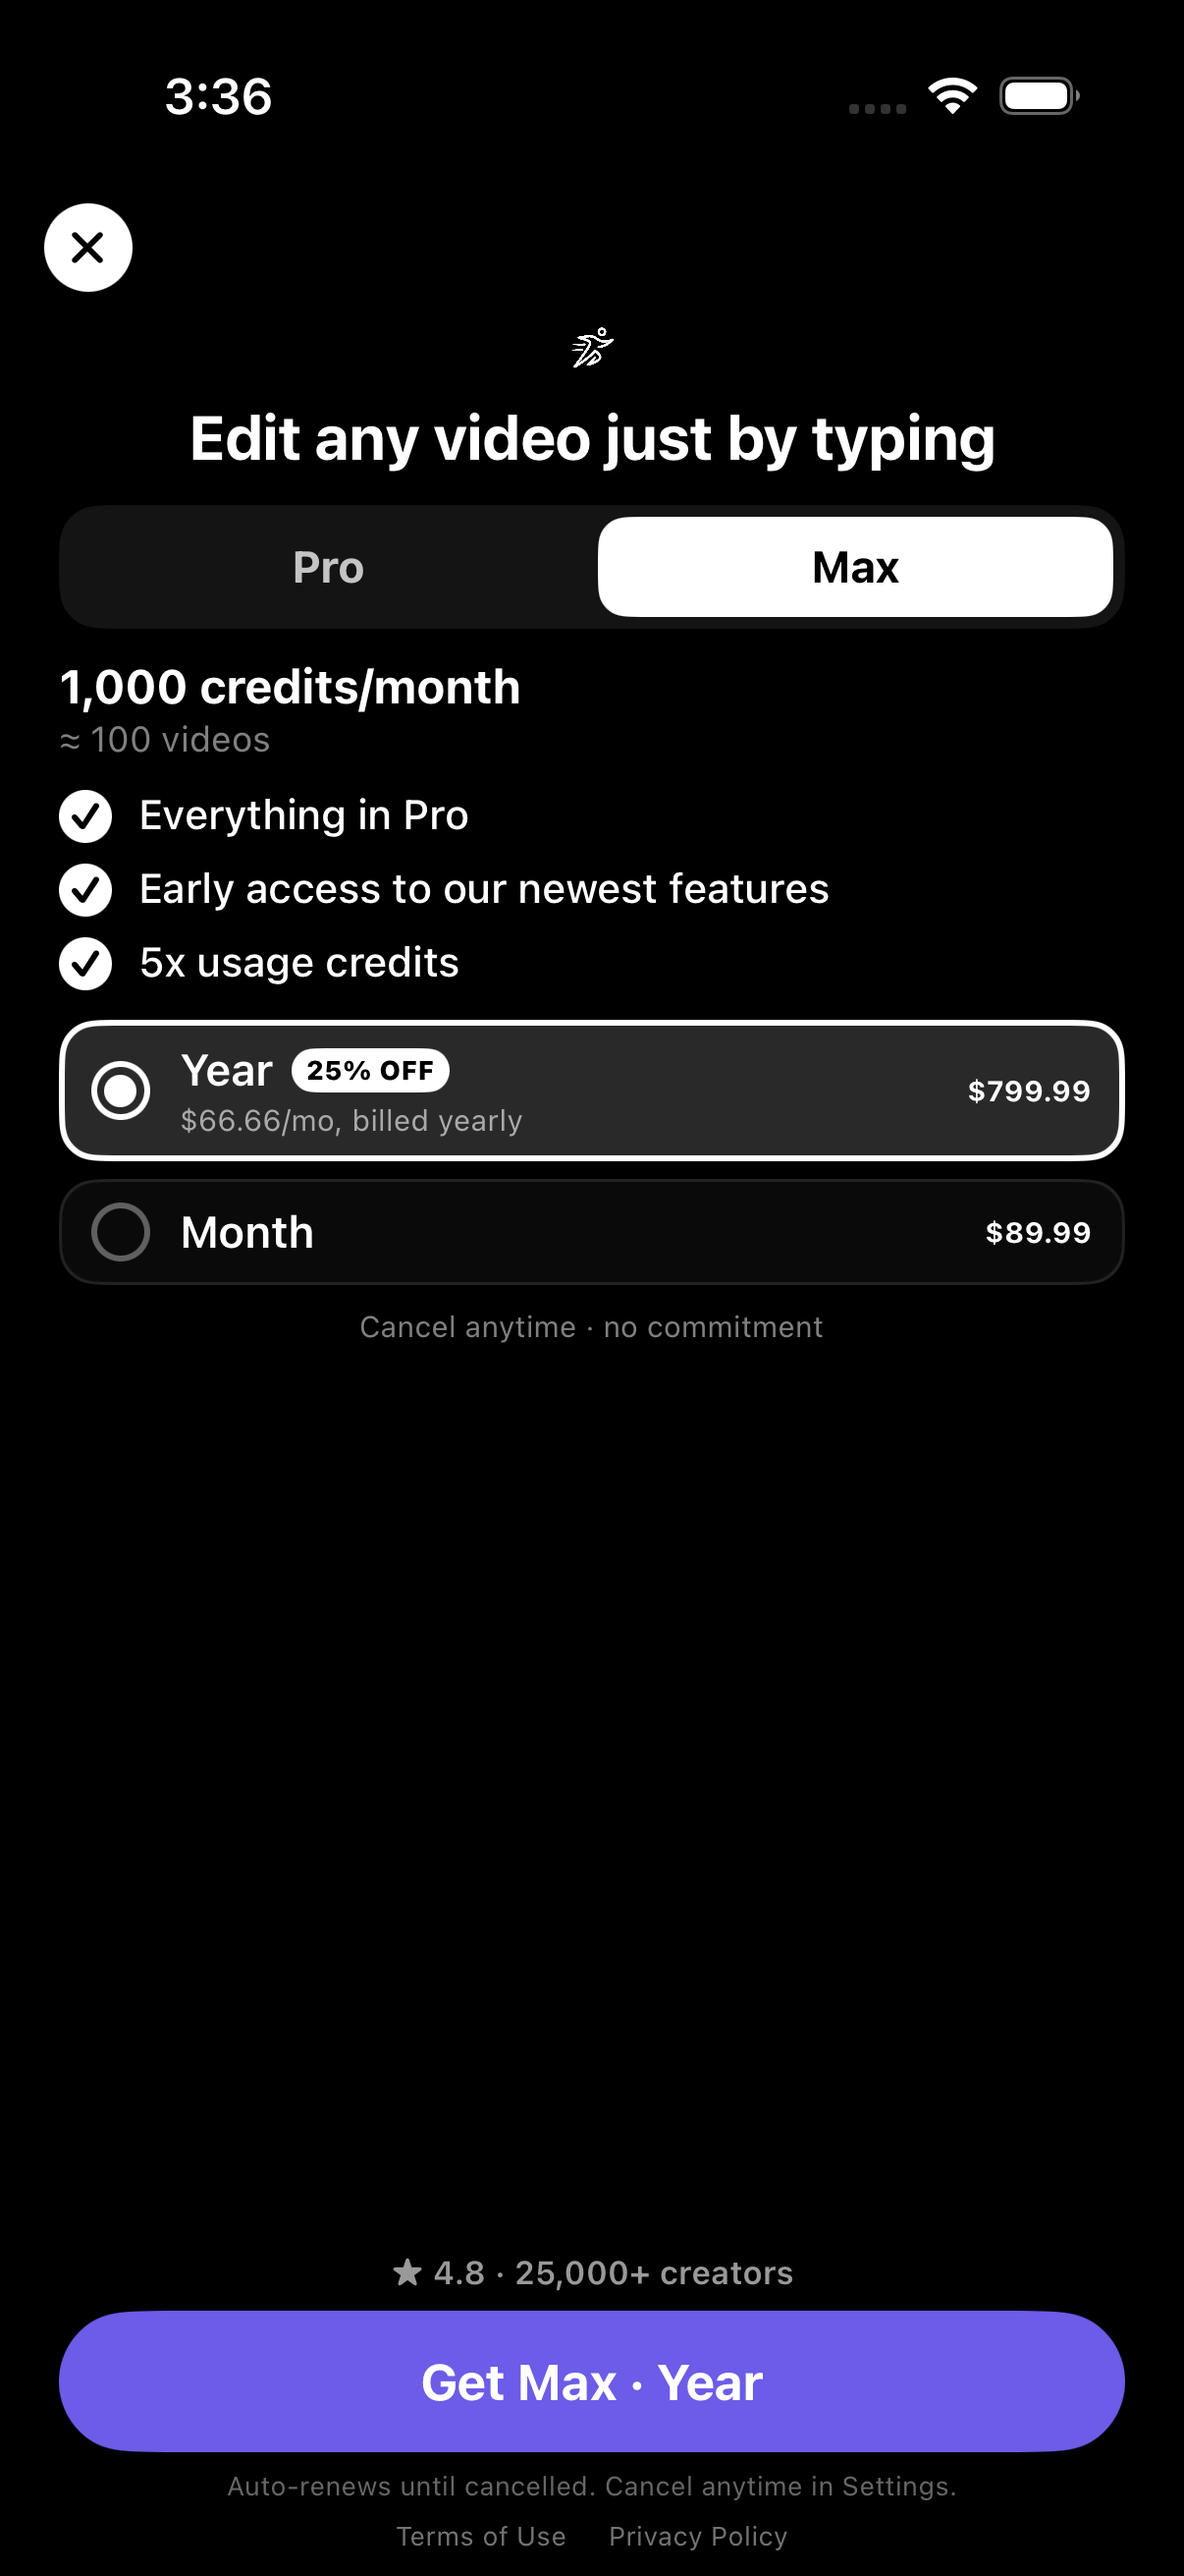
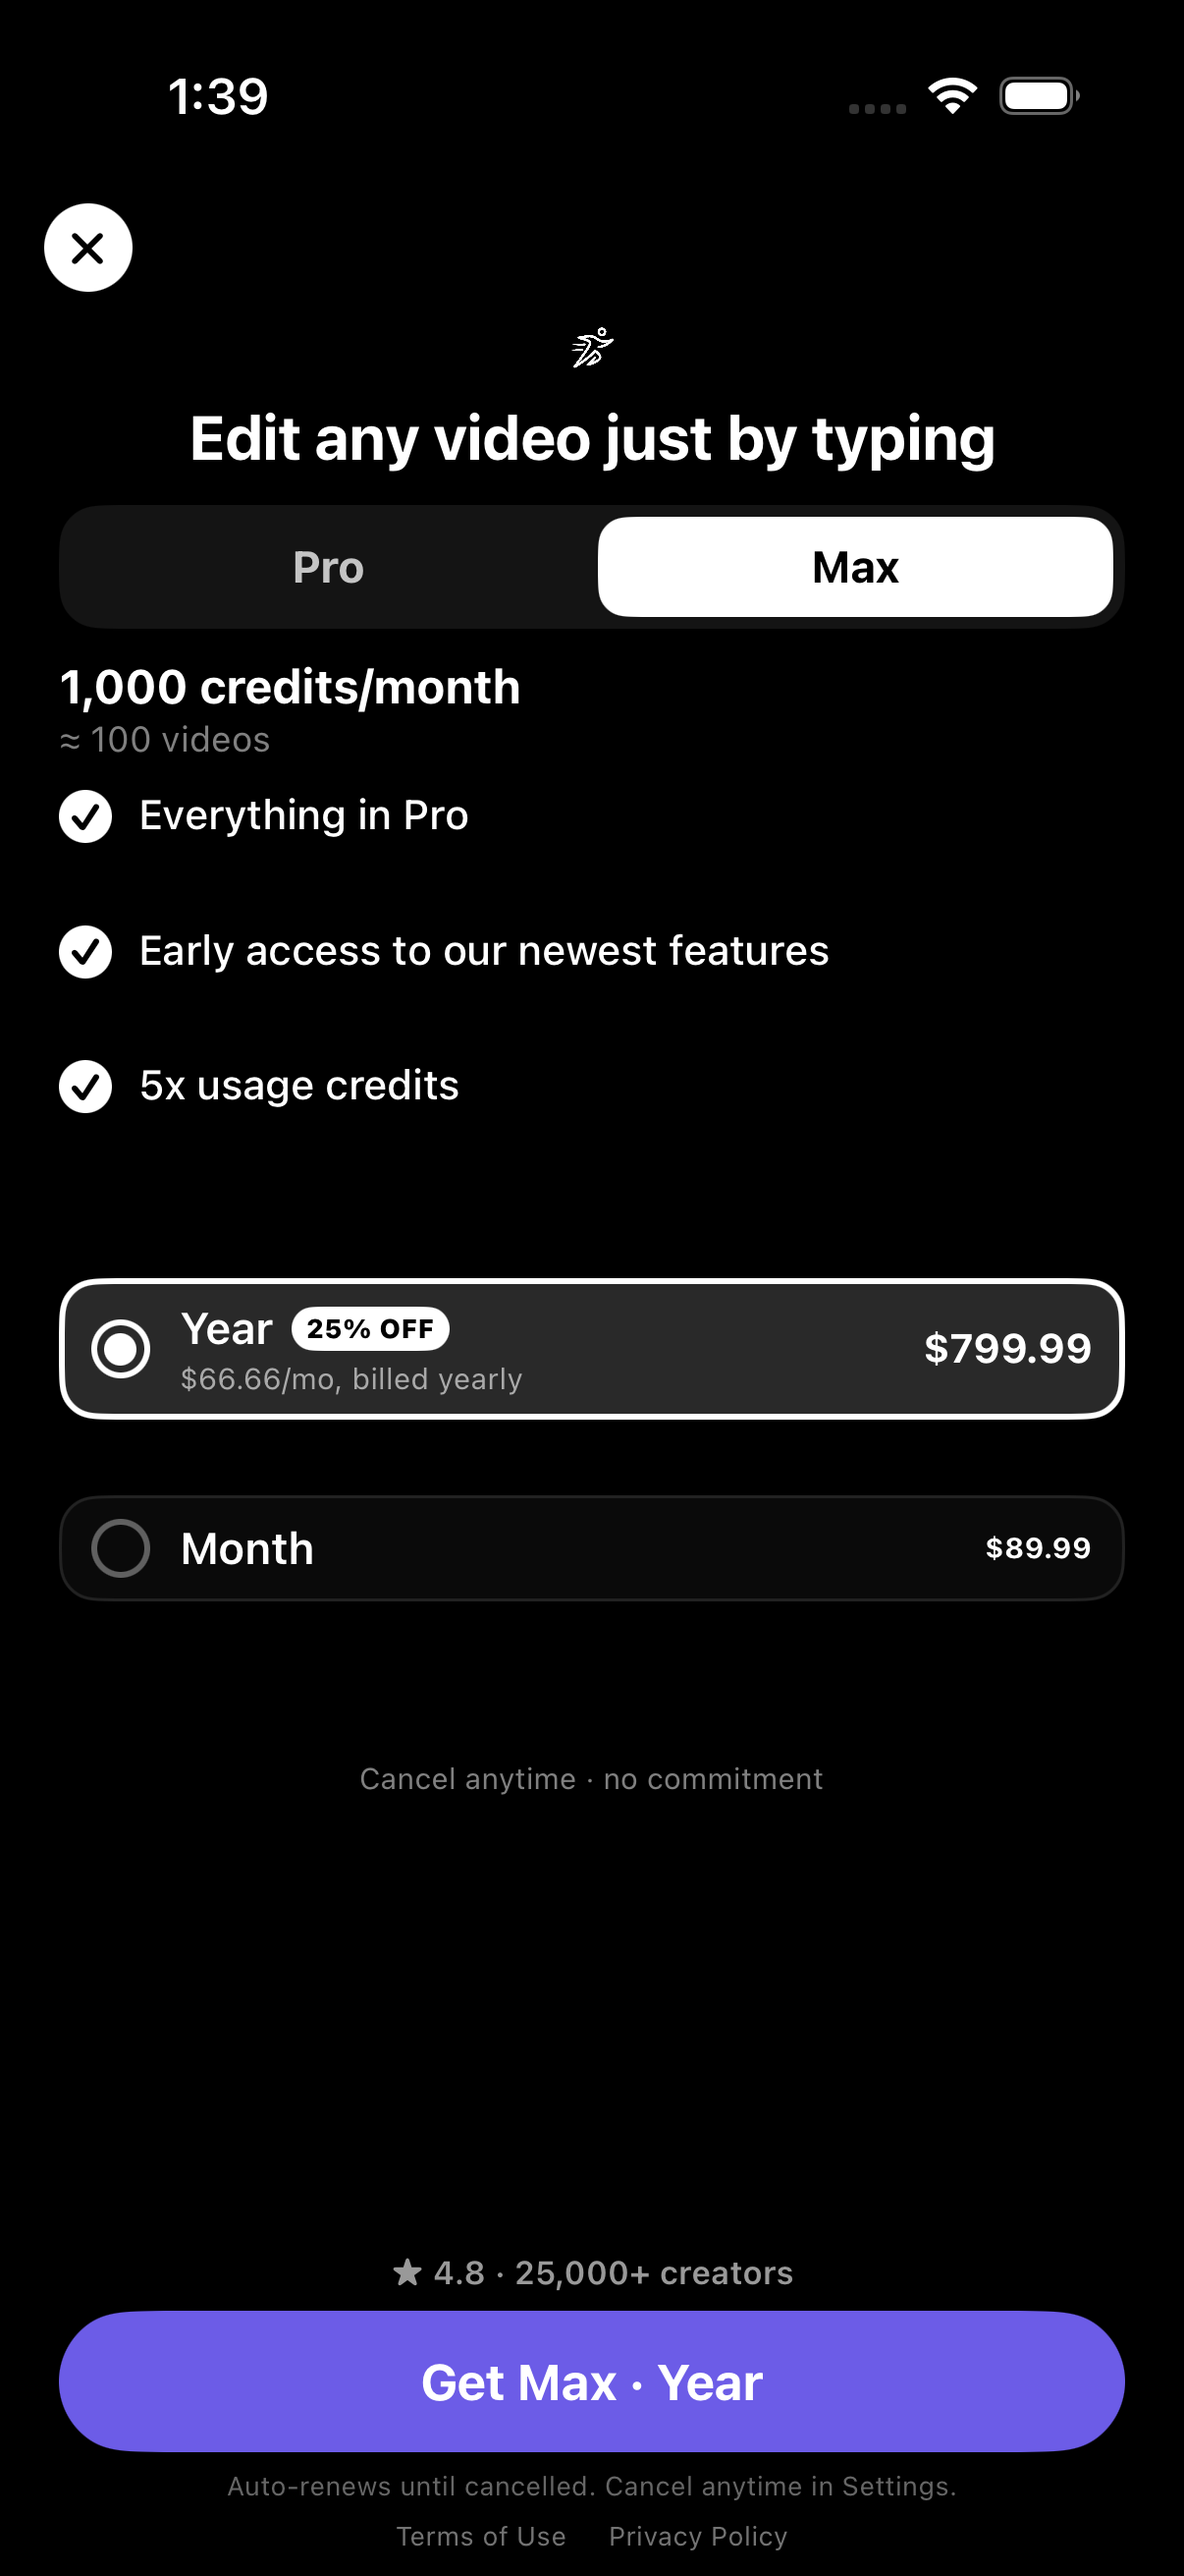
Max Yearly resolves: offering is 5; review screenshot re-shot
RESOLVED. The offering now returns FIVE packages and StoreKit returns both Max
products:

  $rc_annual   promptly_pro_yearly    1year   200
  $rc_monthly  promptly_pro_monthly   1month  200
  $rc_weekly   promptly_pro_weekly    1week   200
  max_monthly  promptly_max_monthly   1month  1000
  max_yearly   promptly_max_yearly    1year   1000
  current=default raw=5 afterGate=5

  [STOREKIT] promptly_max_monthly = RESOLVES
  [STOREKIT] promptly_max_yearly  = RESOLVES

THE PROBE THAT WOULD HAVE SAVED THE CHASE. `availablePackages` is already
POST-filter: RevenueCat drops any package whose StoreKit product did not
resolve, so "attached in the dashboard" and "raw=4" were never contradictory —
they are the signature of a product StoreKit will not return. Reading the
offering alone cannot separate NOT-ATTACHED from ATTACHED-BUT-UNRESOLVABLE, and
this session spent eight reads unable to tell which.

`-dumpOffering` now asks StoreKit directly for the product ids, so the next
occurrence reports WHICH of the two it is in one launch instead of by
elimination over an afternoon. Kept for that reason.

Screenshot re-shot and delivered — the previous one showed Year $799.99 while
the app could not offer that row, which is a rejection risk on the exact SKU it
is meant to support:
  docs/screenshots/app-review/max-yearly-iap-review-17pro.png
  ~/Desktop/Promptly Reports/max-yearly-iap-review-17pro.png

Both tabs verified with five packages: Pro reads 200 credits/month ~ 20 videos
[…]

diff --git a/ios/Promptly/Promptly/Views/TwoStepPaywall.swift b/ios/Promptly/Promptly/Views/TwoStepPaywall.swift
@@ -1,5 +1,6 @@
 import SwiftUI
 import RevenueCat
+import StoreKit
 
 // MARK: - Presentation models
 
@@ -775,6 +776,28 @@ struct TwoStepPaywall: View {
                 let sp = p.storeProduct
                 let per = sp.subscriptionPeriod
                 print("[OFFER]  pkg=\(p.identifier) type=\(p.packageType) product=\(sp.productIdentifier) period=\(per.map { "\($0.value)\($0.unit)" } ?? "nil") planPeriod=\(p.planPeriod) allowance=\(String(describing: CreditAllowance.monthly(forProductId: sp.productIdentifier)))")
+            }
+            // ASK STOREKIT DIRECTLY. `availablePackages` is already
+            // POST-filter: RevenueCat drops any package whose underlying
+            // StoreKit product did not resolve, so an attached package and a
+            // count of 4 are not a contradiction — they are the signature of a
+            // product StoreKit will not return. Reading the offering alone
+            // cannot tell "not attached" from "attached but unresolvable", and
+            // this session spent eight reads unable to separate them.
+            //
+            // This asks the store itself, so the poll reports WHICH of the two
+            // it is and goes green the moment resolution starts working.
+            Task {
+                let ids = ["promptly_max_yearly", "promptly_max_monthly"]
+                do {
+                    let found = try await Product.products(for: ids)
+                    let got = Set(found.map(\.id))
+                    for id in ids {
+                        print("[STOREKIT] \(id) = \(got.contains(id) ? "RESOLVES" : "NOT RETURNED BY STOREKIT")")
+                    }
+                } catch {
+                    print("[STOREKIT] query failed: \(error.localizedDescription)")
+                }
             }
         }
         #endif
